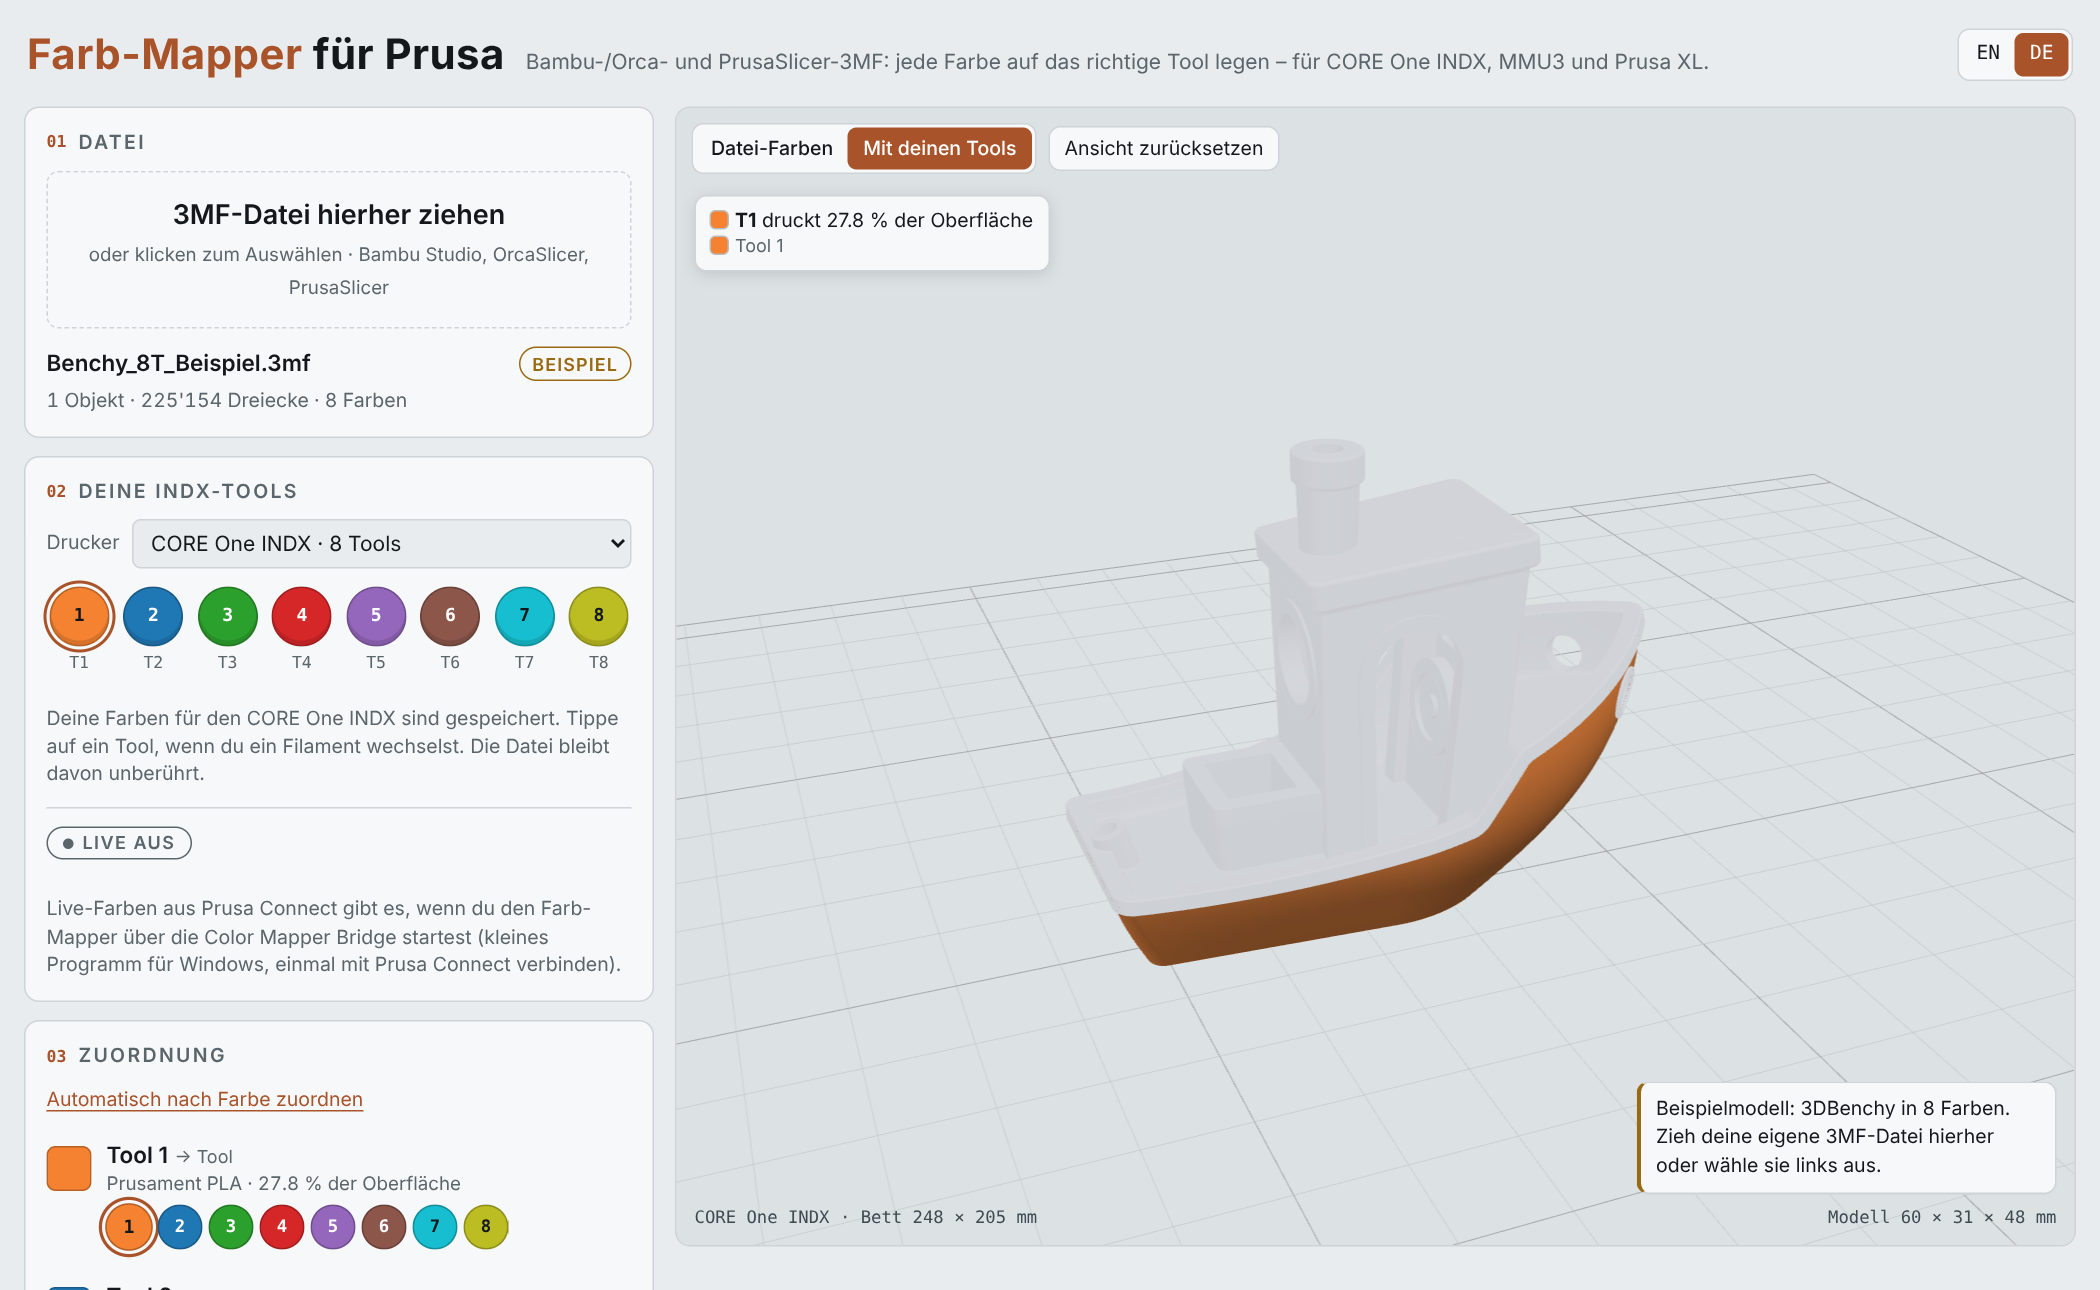
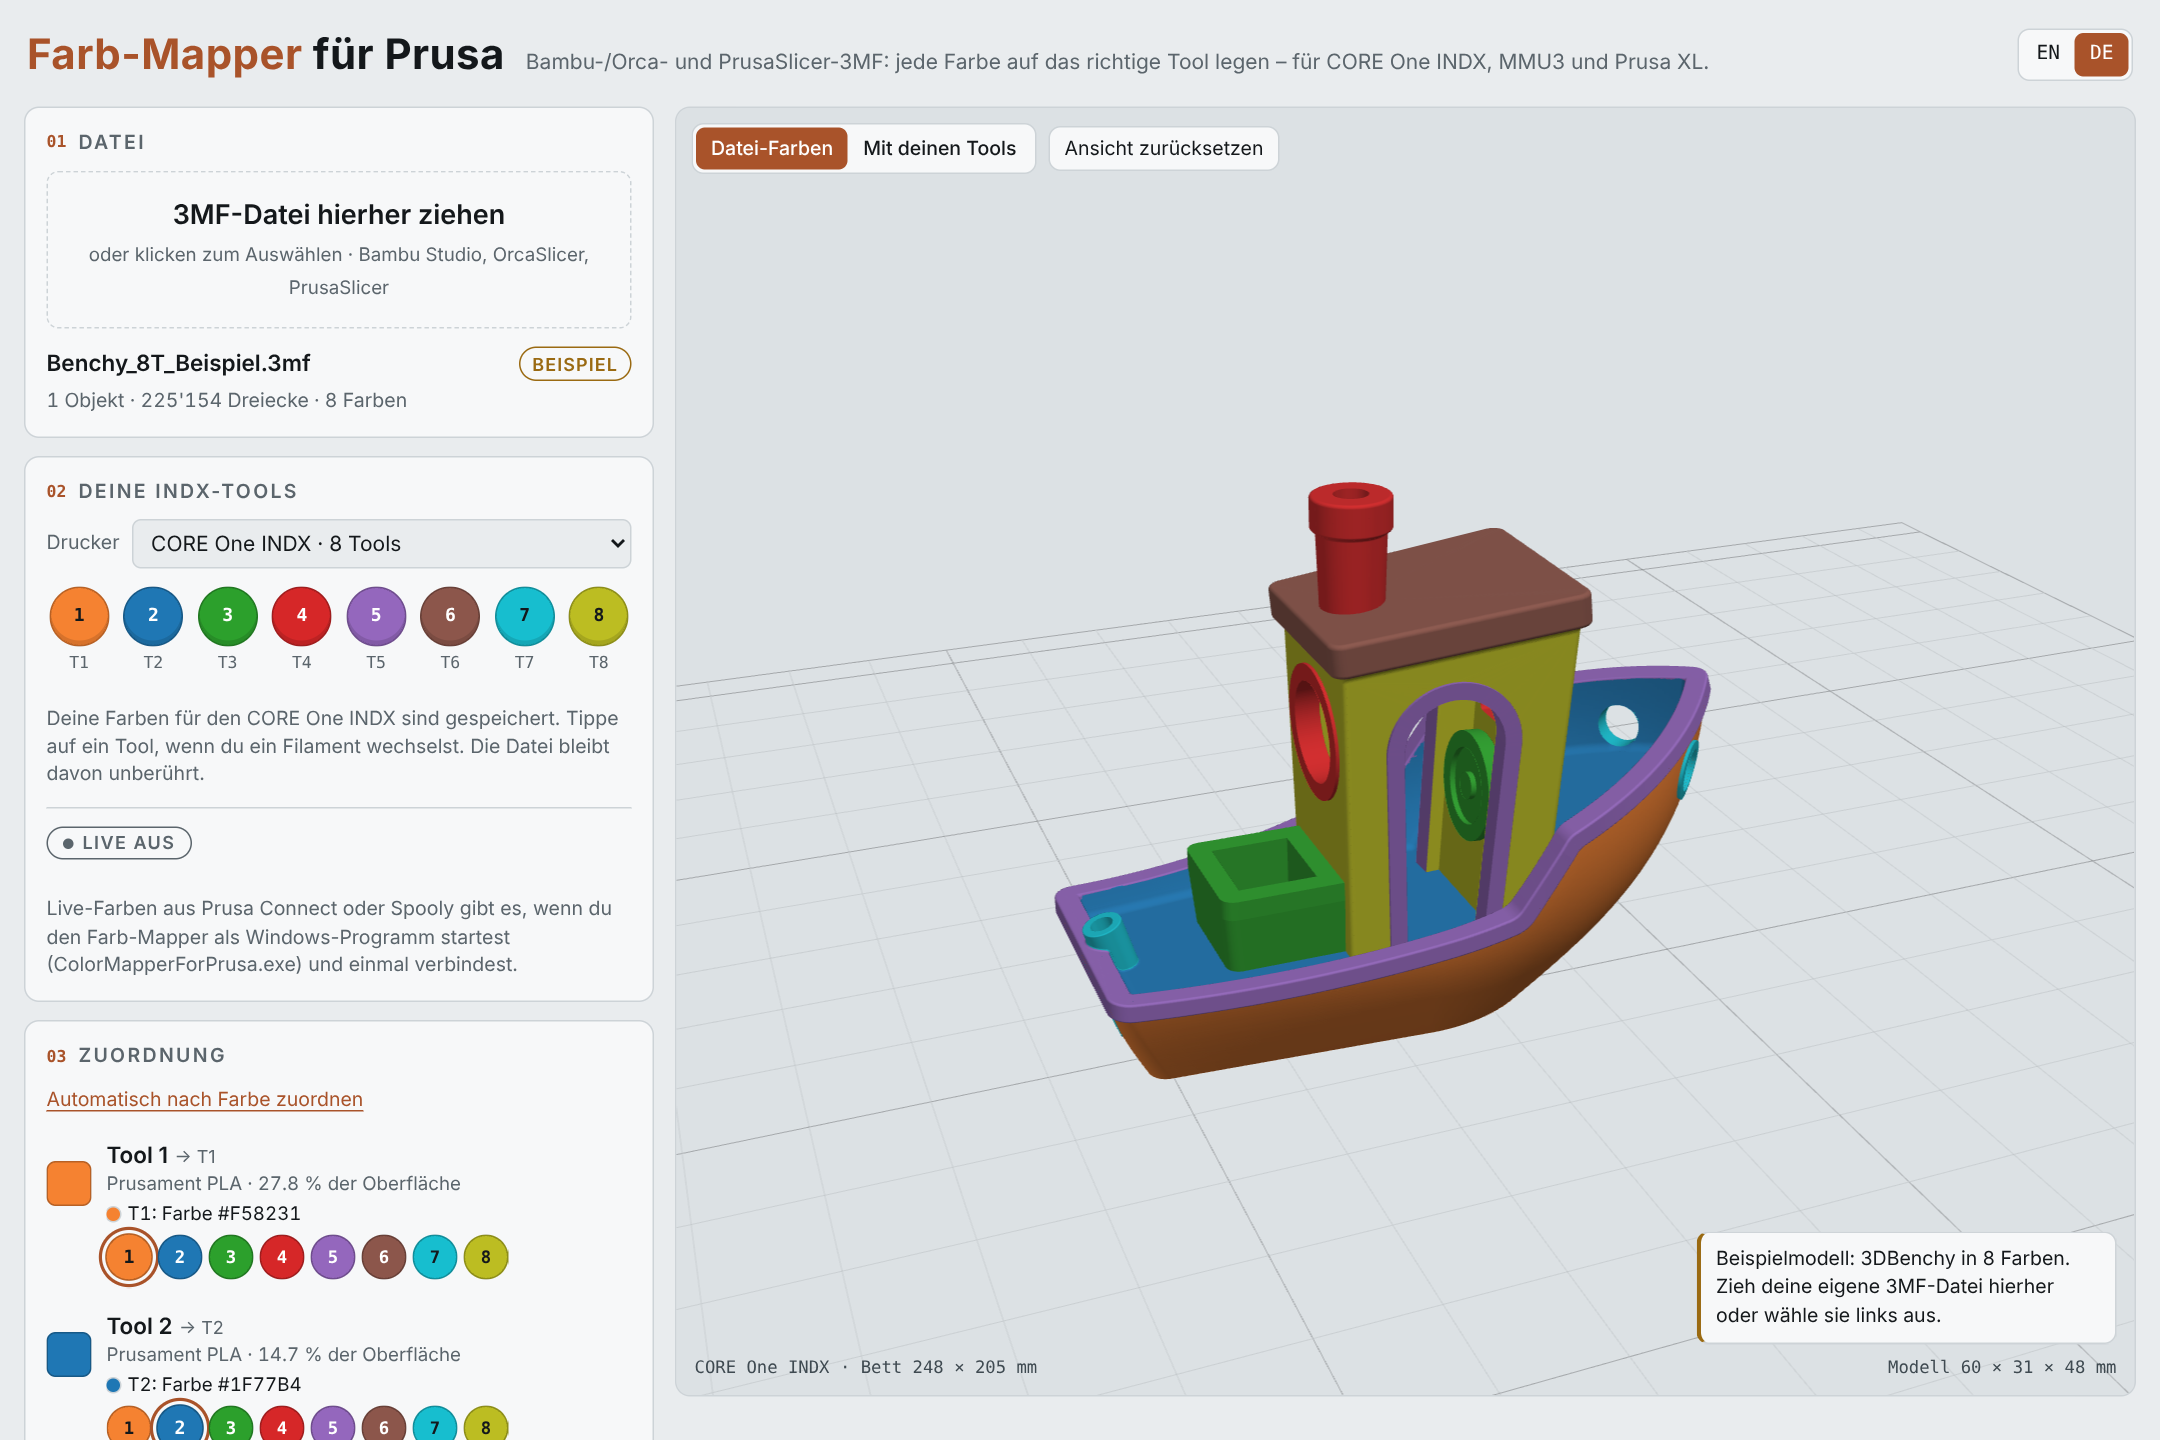
New README screenshots, hint mentions Spooly
- New screenshots of the current web version (EN/DE, light and dark),
  every sample color on its own tool
- The hint without the Windows program now mentions Spooly too

Claude-Session: https://claude.ai/code/session_01XiUPJFWm3fwv1rHjD5Hjyr

diff --git a/app/index.src.html b/app/index.src.html
@@ -402,7 +402,7 @@ details.howto ol { padding-left: 18px; margin: 6px 0 0; display: grid; gap: 4px;
       ownNoSync: (l) => 'Different from ' + S() + ': ' + l + '.',
       ago: (s) => (s < 60 ? s + ' s' : Math.round(s / 60) + ' min') + ' ago',
       pillOff: 'Live off',
-      hintNoBridge: 'Live colors from Prusa Connect are available when you start Color Mapper for Prusa as a Windows program (ColorMapperForPrusa.exe) and connect it to Prusa Connect once.',
+      hintNoBridge: 'Live tool colors from Prusa Connect or Spooly are available when you start Color Mapper for Prusa as a Windows program (ColorMapperForPrusa.exe) and connect it once.',
       pillSignin: 'Signing in …', signinText: 'Sign in to your Prusa account in the window that opened.',
       pillNotConn: 'Not connected',
       hintConnectOnce: 'Connect once: a window with the Prusa sign-in opens. After that the program fetches the tool colors by itself every 30 seconds.',
@@ -543,7 +543,7 @@ details.howto ol { padding-left: 18px; margin: 6px 0 0; display: grid; gap: 4px;
       ownNoSync: (l) => 'Abweichend von ' + S() + ': ' + l + '.',
       ago: (s) => 'vor ' + (s < 60 ? s + ' s' : Math.round(s / 60) + ' min'),
       pillOff: 'Live aus',
-      hintNoBridge: 'Live-Farben aus Prusa Connect gibt es, wenn du den Farb-Mapper als Windows-Programm startest (ColorMapperForPrusa.exe) und einmal mit Prusa Connect verbindest.',
+      hintNoBridge: 'Live-Farben aus Prusa Connect oder Spooly gibt es, wenn du den Farb-Mapper als Windows-Programm startest (ColorMapperForPrusa.exe) und einmal verbindest.',
       pillSignin: 'Anmeldung …', signinText: 'Melde dich im geöffneten Fenster bei deinem Prusa-Account an.',
       pillNotConn: 'Nicht verbunden',
       hintConnectOnce: 'Einmal verbinden: Ein Fenster mit der Prusa-Anmeldung öffnet sich. Danach holt das Programm die Tool-Farben selbständig, alle 30 Sekunden.',

diff --git a/README.de.md b/README.de.md
@@ -9,7 +9,10 @@ Jede Farbe einer mehrfarbigen 3MF auf das richtige Tool deines Prusa-Druckers le
 
 Du hast ein bemaltes Modell für Bambu Studio, OrcaSlicer oder PrusaSlicer gefunden, aber die Farben liegen auf anderen Extrudern als die Filamente in deinem Drucker. Der Farb-Mapper zeigt das Modell in 3D, du legst jede Farbe der Datei auf eines deiner Tools oder einen deiner MMU-Slots, und er speichert eine 3MF für PrusaSlicer mit entsprechend verschobener Bemalung.
 
-![Farb-Mapper für Prusa mit dem 8-farbigen 3DBenchy als Beispiel](docs/screenshot-de.png)
+<picture>
+  <source media="(prefers-color-scheme: dark)" srcset="docs/screenshot-de-dark.png">
+  <img alt="Farb-Mapper für Prusa mit dem 8-farbigen 3DBenchy als Beispiel, jede Farbe auf ihrem Tool" src="docs/screenshot-de.png">
+</picture>
 
 ## Funktionen
 

diff --git a/README.md b/README.md
@@ -9,7 +9,10 @@ Put every color of a multi-color 3MF on the right tool of your Prusa printer –
 
 You found a painted model for Bambu Studio, OrcaSlicer or PrusaSlicer, but its colors sit on different extruders than the filaments loaded in your printer. Color Mapper for Prusa shows the model in 3D, lets you assign each file color to one of your tools or MMU slots, and saves a 3MF for PrusaSlicer with the painting moved accordingly.
 
-![Color Mapper for Prusa with the 8-color 3DBenchy sample](docs/screenshot.png)
+<picture>
+  <source media="(prefers-color-scheme: dark)" srcset="docs/screenshot-dark.png">
+  <img alt="Color Mapper for Prusa with the 8-color 3DBenchy sample, every color on its own tool" src="docs/screenshot.png">
+</picture>
 
 ## Features
 
